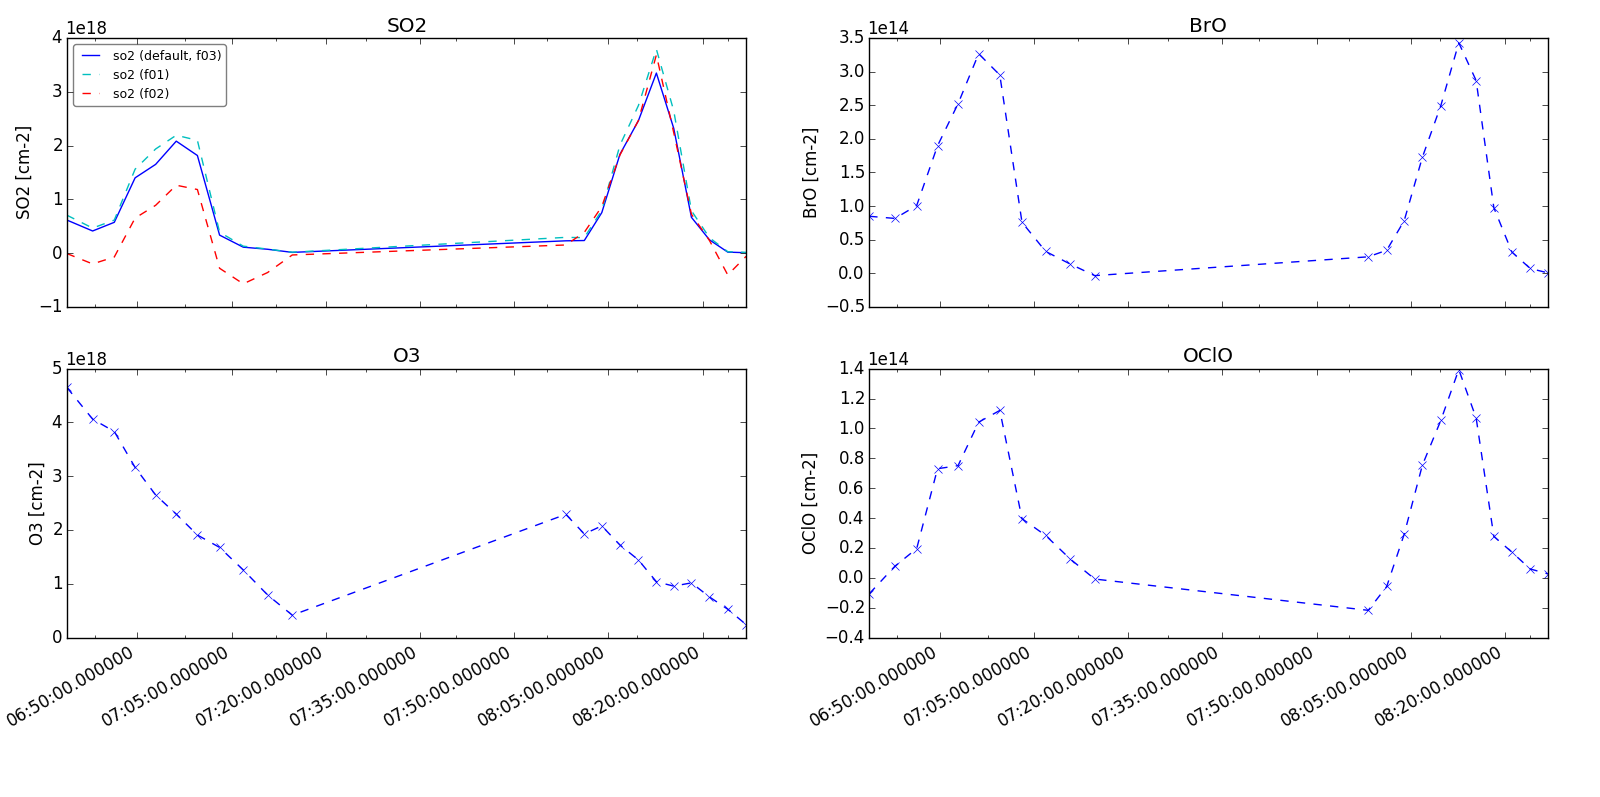
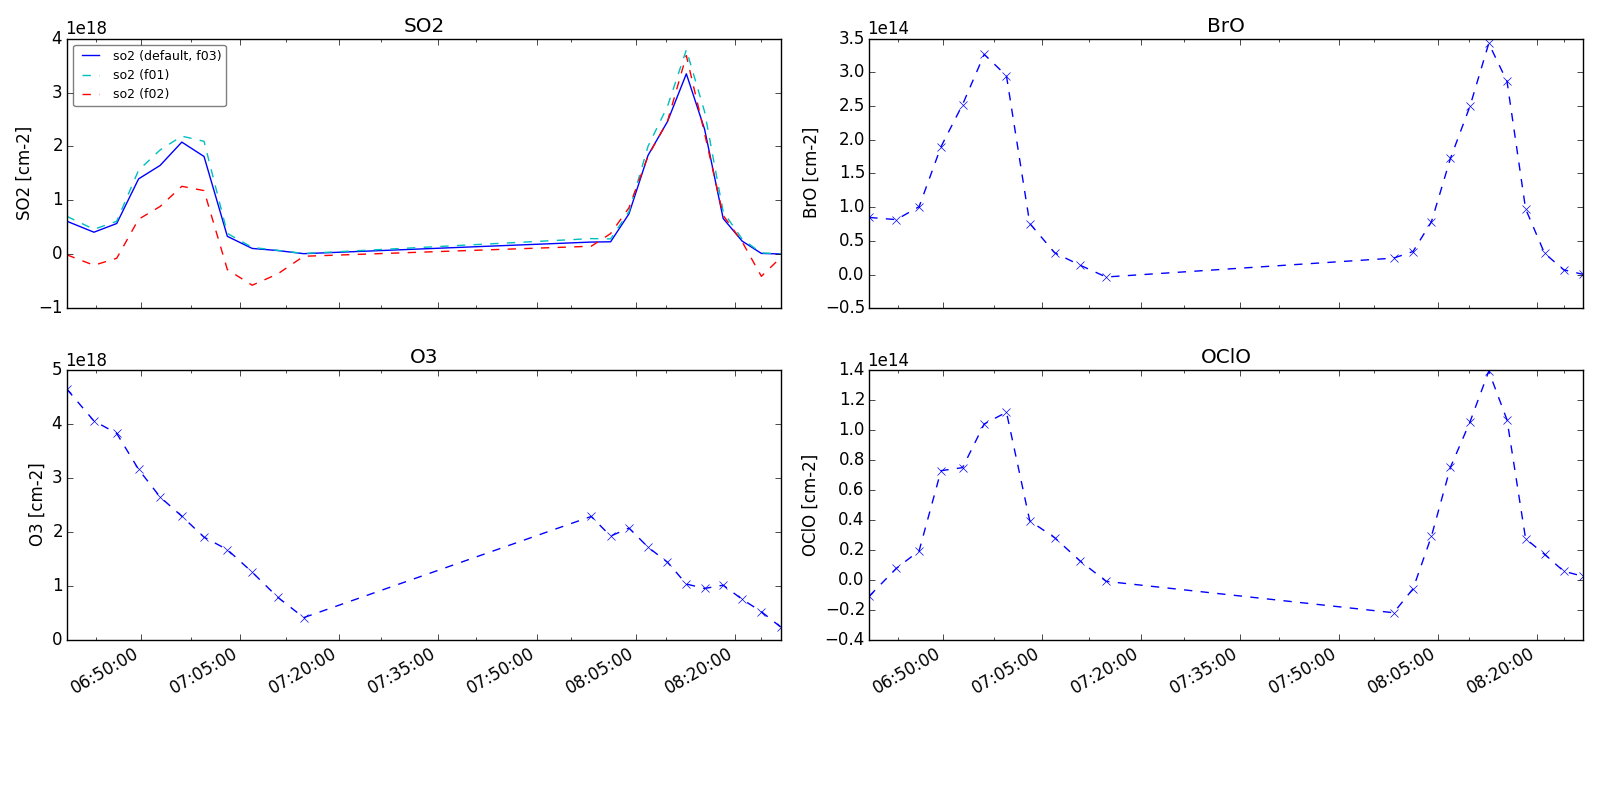
Replotted examples, minor changes in docs

diff --git a/README.rst b/README.rst
@@ -3,28 +3,31 @@ It supports default import of the result file format of
 `DOASIS <https://doasis.iup.uni-heidelberg.de/bugtracker/projects/doasis/>`_. Further import formats for fast data access can easily be defined by the user.
 
 Requirements
-------------
+============
 
 - numpy
 - matplotlib
 - pandas 
 
 Installation
-------------
-pydoas can be installed from PyPi using::
+============
+
+pydoas can be installed from `PyPi <https://pypi.python.org/pypi/pydoas>`__ using::
 
   pip install pydoas
   
-or from source (hosted on GitHub) by `downloading and extracting the latest release <https://github.com/jgliss/pydoas>`_. After navigating to the source folder (where the setup.py file is located), call::
+or from source (hosted on GitHub) by `downloading and extracting the latest release <https://github.com/jgliss/pydoas>`_ or downloading / cloning the repo. If you download manually, call::
 
   python setup.py install
   
+after download and extraction of the source directory.
+  
 Instructions and code documentation
------------------------------------
+===================================
 
 The code documentation of pydoas is hosted `here <http://pydoas.readthedocs.io/en/latest/index.html>`_
 
 Get started
------------
+===========
 
 After installation try running the `example scripts <http://pydoas.readthedocs.io/en/latest/examples.html>`_ in order to test the installation. The scripts are also meant to provide an easy start into the main features of pydoas.

diff --git a/docs/index.rst b/docs/index.rst
@@ -6,6 +6,8 @@
 Welcome to pydoas's documentation!
 ==================================
 
+pydoas provides high level functionality for import of text file based results from DOAS analyses (i.e. it cannot  perform the actual DOAS retrieval). It supports default import routines for the result file format of the software DOASIS.
+
 **Contents:**
 
 .. toctree::

diff --git a/docs/readme_link.rst b/docs/readme_link.rst
@@ -1,6 +1,5 @@
+************
 Introduction
-############
-
-The current intro is a copy of the readme file
+************
 
 .. include:: ../README.rst
